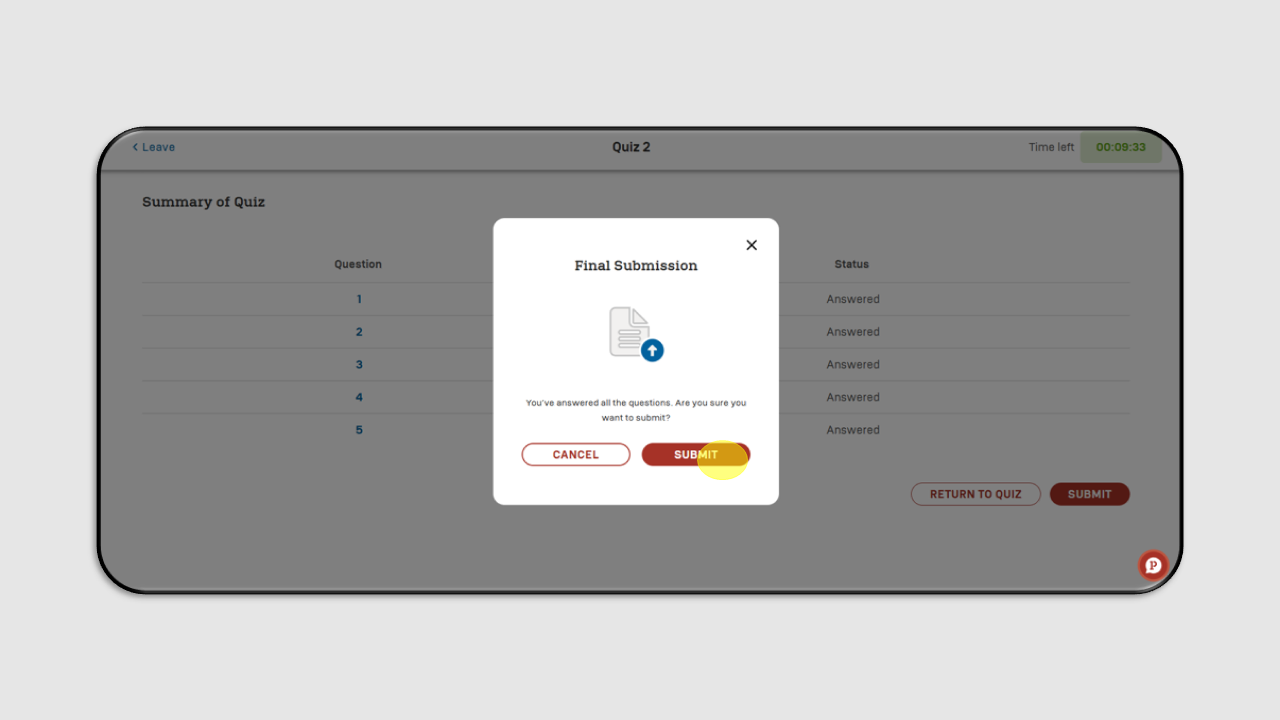
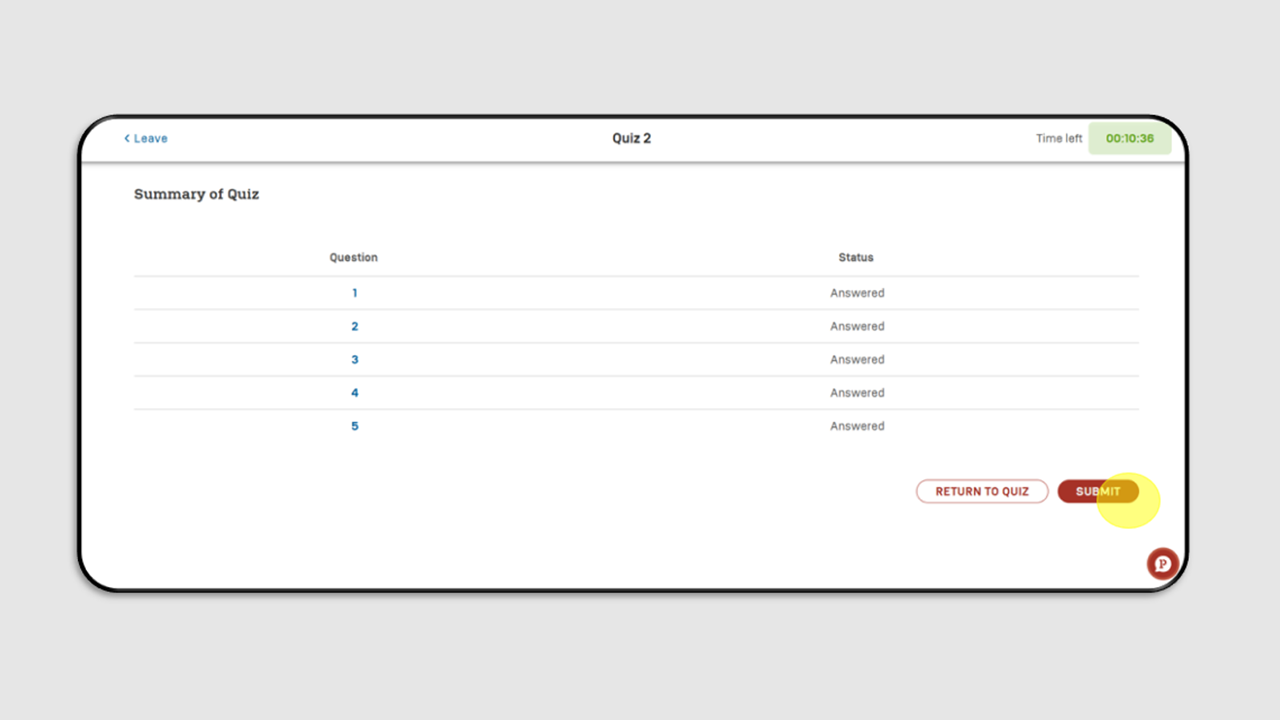
Update LMS “quiz-pre-quiz-post-quiz-quiz”

diff --git a/contents/docs/lms/en/quiz-pre-quiz-post-quiz-quiz.md b/contents/docs/lms/en/quiz-pre-quiz-post-quiz-quiz.md
@@ -31,7 +31,7 @@ After selecting an answer for the quiz, you can click Next to proceed to the nex
 
 Starting from the second question, you can review the previous questions and your answers by clicking **Previous**.
 
-![](/img/quiz-eng-6.png)
+![](/img/quiz-eng-5.png)
 
 For the final quiz question, you can click Review and Submit, which will display a Quiz Summary, and then you can click **Submit**.
 
@@ -40,3 +40,11 @@ For the final quiz question, you can click Review and Submit, which will display
 Click **Submit** to submit your quiz answers.
 
 ![](/img/quiz-eng-7.png)
+
+After you click **Submit**, a summary and your quiz score will appear, as shown below:
+
+![](/img/quiz-eng-8.png)
+
+If you exceed the allotted time during the quiz, you will not be able to continue answering. The quiz will be considered complete, and the following screen will appear:
+
+![](/img/quiz-eng-9.png)
